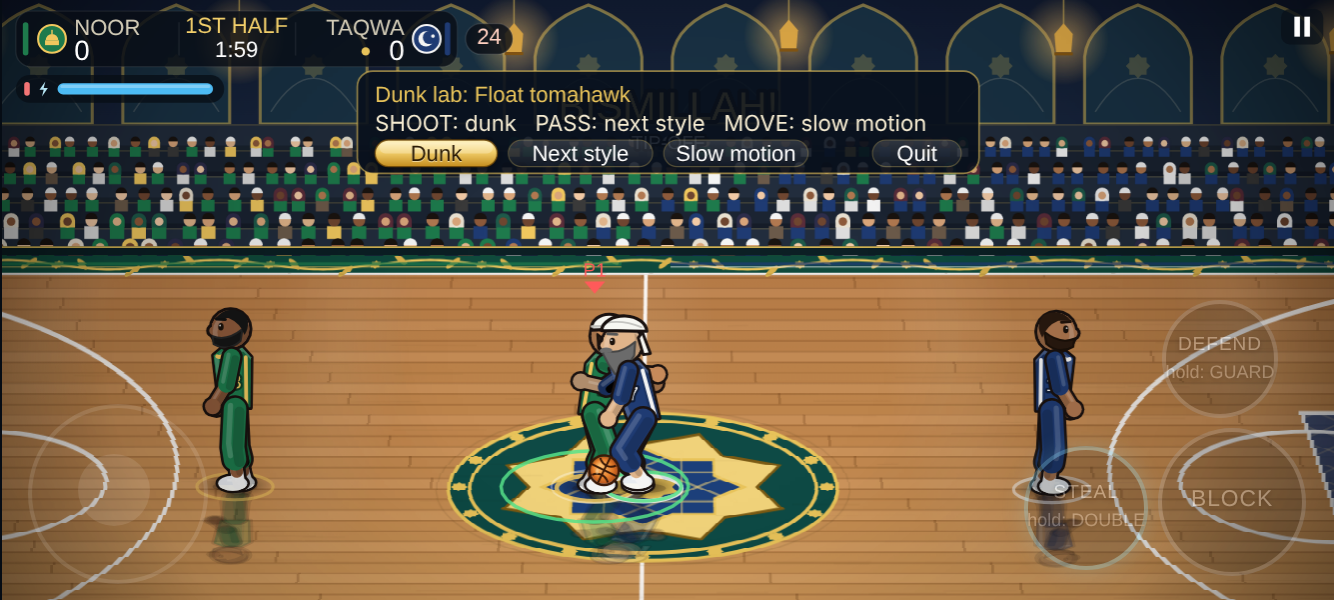
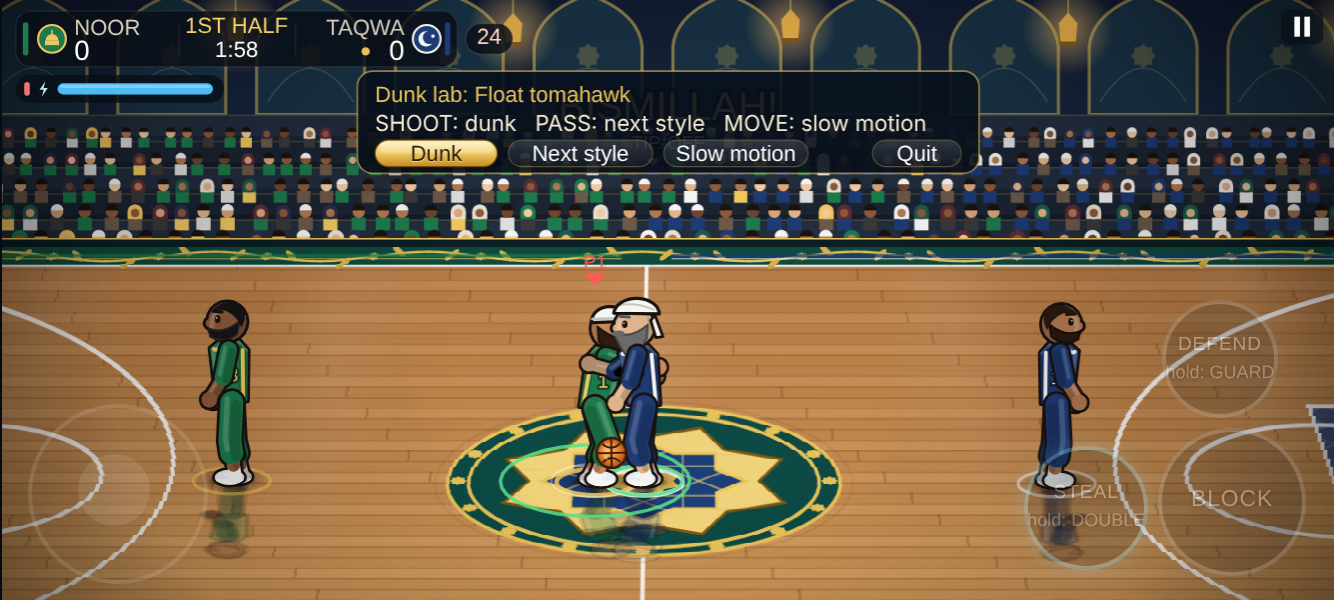
v9.0.1: career uses the game format
Claude-Session: https://claude.ai/code/session_01FsKiX5iBsCNQdcnNNHnS7K

diff --git a/index.html b/index.html
@@ -72,7 +72,7 @@ canvas{display:block;image-rendering:auto;outline:none;touch-action:none;-webkit
 // 2) Make passes, drives, dunks, and defensive contests communicate their intent and counterplay.
 // 3) Keep camera/impact presentation readable, accessible, and inexpensive on mobile.
 const REDUCED_MOTION = !!(window.matchMedia && window.matchMedia('(prefers-reduced-motion: reduce)').matches);
-const VERSION = '9.0.0';
+const VERSION = '9.0.1';
 /* =====================================================================
    ISLAM DUNK — 2v2 masjid-league arcade basketball
    Systems (in order): Config & Data · Utils · Audio · Input · Hoops/Net
@@ -1862,9 +1862,9 @@ function newMatch(tA, tB, opts = {}) {
 }
 // Format for this match: the host's (or local) settings; attract/practice use fixed ones.
 function makeFmt(opts) {
-  // v8.6.5: career games and practice (gym drills, mini games) keep 4 quarters; they used to follow the Settings
-  // format, whose default was quarters until the default game became 2 halves. Their period length still follows Settings.
-  const f = opts.fmt || (opts.attract ? { format: 'quarters', len: 60, sc: 24 } : (opts.career || opts.practice) ? { format: 'quarters', len: SETTINGS.periodLen, target: SETTINGS.target }
+  // Practice (gym drills, mini games, the hub gym) keeps 4 quarters: it has no real periods. v9.0.1: career games follow
+  // the Settings format like Quick Play (2 halves of 2:00 by default). Barakah Run and scenarios pass their own fmt.
+  const f = opts.fmt || (opts.attract ? { format: 'quarters', len: 60, sc: 24 } : opts.practice ? { format: 'quarters', len: SETTINGS.periodLen, target: SETTINGS.target }
     : { format: SETTINGS.format, len: SETTINGS.periodLen, target: SETTINGS.target });
   const first21 = f.format === 'first21', len = f.len || 120;
   const sc = f.sc != null ? f.sc : first21 ? 0 : (SHOT_CLOCK_FOR[len] != null ? SHOT_CLOCK_FOR[len] : 24);
@@ -4419,7 +4419,7 @@ const STORY = {
     'Hold shoot and let go at the top of your jump. Green on the meter is money.', 'A contested shot is a gift to the other team. Find the open brother.', "Change direction while dribbling. The defender's ankles will need a break.",
     'Sprint at the rim and shoot: that is a dunk. Use it wisely.', 'Pray before the game, not just after it.', 'Defense is patience. Stay between your man and the rim.',
     'Help the man who falls, even if he wears the other jersey.', 'Talk on defense. A quiet team gets screened.', 'Stay low on defense. Tall legs, short temper, both are trouble.',
-    'Shake hands before tip-off. Adab first, then basketball.', 'Drink water. Your legs will thank you in the fourth.', 'A good pass makes two people happy.']
+    'Shake hands before tip-off. Adab first, then basketball.', 'Drink water. Your legs will thank you in the last minute.', 'A good pass makes two people happy.']
 };
 
 // ============================================================ MASJID GYM

diff --git a/src/sim/match.js b/src/sim/match.js
@@ -30,9 +30,9 @@ function newMatch(tA, tB, opts = {}) {
 }
 // Format for this match: the host's (or local) settings; attract/practice use fixed ones.
 function makeFmt(opts) {
-  // v8.6.5: career games and practice (gym drills, mini games) keep 4 quarters; they used to follow the Settings
-  // format, whose default was quarters until the default game became 2 halves. Their period length still follows Settings.
-  const f = opts.fmt || (opts.attract ? { format: 'quarters', len: 60, sc: 24 } : (opts.career || opts.practice) ? { format: 'quarters', len: SETTINGS.periodLen, target: SETTINGS.target }
+  // Practice (gym drills, mini games, the hub gym) keeps 4 quarters: it has no real periods. v9.0.1: career games follow
+  // the Settings format like Quick Play (2 halves of 2:00 by default). Barakah Run and scenarios pass their own fmt.
+  const f = opts.fmt || (opts.attract ? { format: 'quarters', len: 60, sc: 24 } : opts.practice ? { format: 'quarters', len: SETTINGS.periodLen, target: SETTINGS.target }
     : { format: SETTINGS.format, len: SETTINGS.periodLen, target: SETTINGS.target });
   const first21 = f.format === 'first21', len = f.len || 120;
   const sc = f.sc != null ? f.sc : first21 ? 0 : (SHOT_CLOCK_FOR[len] != null ? SHOT_CLOCK_FOR[len] : 24);

diff --git a/src/career/career.js b/src/career/career.js
@@ -360,6 +360,6 @@ const STORY = {
     'Hold shoot and let go at the top of your jump. Green on the meter is money.', 'A contested shot is a gift to the other team. Find the open brother.', "Change direction while dribbling. The defender's ankles will need a break.",
     'Sprint at the rim and shoot: that is a dunk. Use it wisely.', 'Pray before the game, not just after it.', 'Defense is patience. Stay between your man and the rim.',
     'Help the man who falls, even if he wears the other jersey.', 'Talk on defense. A quiet team gets screened.', 'Stay low on defense. Tall legs, short temper, both are trouble.',
-    'Shake hands before tip-off. Adab first, then basketball.', 'Drink water. Your legs will thank you in the fourth.', 'A good pass makes two people happy.']
+    'Shake hands before tip-off. Adab first, then basketball.', 'Drink water. Your legs will thank you in the last minute.', 'A good pass makes two people happy.']
 };
 

diff --git a/src/core/config.js b/src/core/config.js
@@ -4,7 +4,7 @@
 // 2) Make passes, drives, dunks, and defensive contests communicate their intent and counterplay.
 // 3) Keep camera/impact presentation readable, accessible, and inexpensive on mobile.
 const REDUCED_MOTION = !!(window.matchMedia && window.matchMedia('(prefers-reduced-motion: reduce)').matches);
-const VERSION = '9.0.0';
+const VERSION = '9.0.1';
 /* =====================================================================
    ISLAM DUNK — 2v2 masjid-league arcade basketball
    Systems (in order): Config & Data · Utils · Audio · Input · Hoops/Net

diff --git a/CHANGELOG.md b/CHANGELOG.md
@@ -1,5 +1,20 @@
 # Changelog
 
+## 9.0.1: career uses the game format
+- **Career games follow Settings → Format and Period length**, like Quick Play: by default 2 halves of 2:00 (24 s
+  shot clock); pick 4 Quarters (or First to 21) and career uses that. Practice (gym drills, mini games, the hub gym)
+  keeps 4 quarters, since it has no real periods; Barakah Run and the daily scenario keep their own fixed formats.
+- Everything in a career game already read the format: the scoreboard label (1ST HALF / 2ND HALF), halftime (once,
+  after the first half), the box score's period columns (H1 / H2), the final period for clutch, rubber-band,
+  late-game CPU, timeouts, the Sabr badge and buzzer-beaters. Rewards, goals and achievements never counted periods,
+  so the same result pays the same.
+- One line changed: an elder's tip "Your legs will thank you in the fourth" now ends "in the last minute".
+- Career saves are unchanged (the format isn't stored in a career).
+- **Tests.** New `career-format` test: a career game with the default settings shows 1ST HALF, has one halftime,
+  ends, records the game, and its rewards match the same result under 4 quarters; a career game with 4 Quarters
+  (QUARTER 1-4, one halftime) and with First to 21 also play out. `formats` now expects career to follow Settings
+  (practice still 4 quarters).
+
 ## 9.0.0: career calendar
 Step 1 of the career calendar: the calendar layer and its UI only. No walking world, no new places or characters;
 the hub and every activity work as before. It is an in-game calendar, not the real date.

diff --git a/docs/review/game-text.md b/docs/review/game-text.md
@@ -2,7 +2,7 @@
 
 Generated by `npm run review:export` from the game source. Mark up `game-text.csv` in a spreadsheet (Keep / Change / Cut, suggested text, notes), or use the in-game review mode (`?review=1`). Row numbers match the CSV.
 
-3403 lines, 2258 new since the Phase 1 packet (marked **NEW**).
+3403 lines, 2259 new since the Phase 1 packet (marked **NEW**).
 
 ## Noor power-ups (v8.6.1: review the wording)
 
@@ -1466,7 +1466,7 @@ Generated by `npm run review:export` from the game source. Mark up `game-text.cs
 | 1426 | `career/career.js:362` | Talk on defense. A quiet team gets screened. |
 | 1427 | `career/career.js:362` | Stay low on defense. Tall legs, short temper, both are trouble. |
 | 1428 | `career/career.js:363` | Shake hands before tip-off. Adab first, then basketball. |
-| 1429 | `career/career.js:363` | Drink water. Your legs will thank you in the fourth. |
+| 1429 | `career/career.js:363` | **NEW** Drink water. Your legs will thank you in the last minute. |
 | 1430 | `career/career.js:363` | A good pass makes two people happy. |
 | 1431 | `career/salah.js:42` | Salah bonus ready for your next game: +10% shooting, +10% stamina |
 | 1432 | `career/salah.js:46` | Drill stopped |
